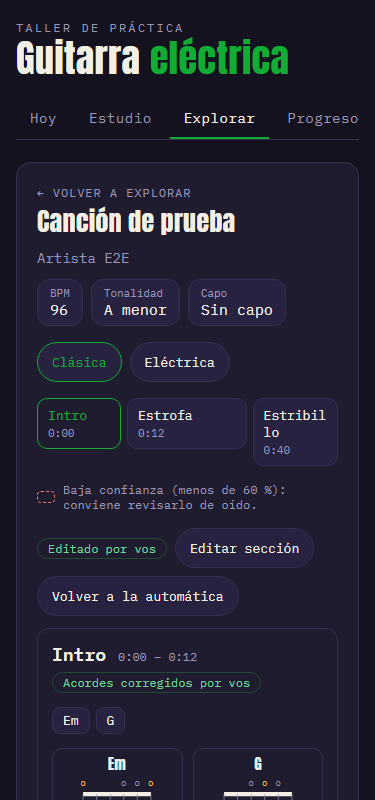
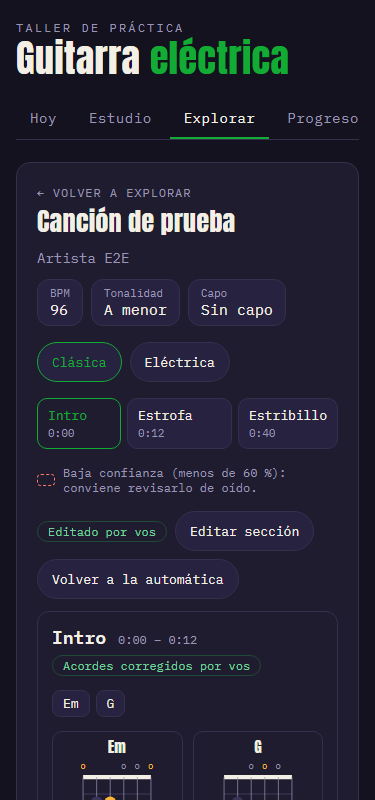
docs(fase-2): resumen de cierre con evidencia por criterio
Claude-Session: https://claude.ai/code/session_01BVeKnBARakQi9mUCfDGATC

diff --git a/docs/fases/fase-2.md b/docs/fases/fase-2.md
@@ -1,6 +1,6 @@
 # Fase 2 — Explorar: análisis de canciones
 
-Estado: **en curso** (plan aprobado por Juan Pedro el 2026-10-23)
+Estado: **cerrada, pendiente de demo** (plan aprobado por Juan Pedro el 2026-10-23)
 Referencia: `docs/PLAN.md` § Explorar, § Pipeline de análisis de canciones, § Modelo de datos (`Song*`, `AudioAsset`, `AnalysisJob`, `Correction`), § Contratos de API, § UI y diseño (diagramas de acordes, vista de canción).
 
 ## Criterios de aceptación de la fase (del plan)
@@ -189,4 +189,27 @@ Leyenda: **Ola** = tareas independientes entre sí, en paralelo (worktree propio
 
 ## Resumen de cierre
 
-(Se completa al cerrar la fase.)
+Cierre el 2026-10-23. Tareas F2-T01 a F2-T21 hechas; F2-T20 (carga manual de la cifra) y F2-T21 (ajustes de la validación) se agregaron durante la fase.
+
+### Criterios, uno por uno
+
+| # | Criterio | Estado | Evidencia |
+| --- | --- | --- | --- |
+| 1 | Pegar un link crea la canción y el worker la procesa | Cumple (YouTube y nombre + artista; Spotify listo pero inactivo hasta tener credenciales, como decidió Juan Pedro) | Corrida real por la API con "Flaca": `POST /songs`, `python -m guitarra_worker --once`, 37 s con descarga (`fase-2/validacion.md`). E2E `e2e/tests/z-canciones.spec.ts` con resultado grabado. |
+| 2 | BPM, tonalidad, secciones con tiempos, acordes con diagramas, rasgueo; clásica y eléctrica | Cumple | `GET /songs/{id}/chart` de clásica (rasgueo y arpegio) y de eléctrica en la corrida real; capturas en `fase-2/capturas/`. |
+| 3 | Cruce con Cifra Club cuando el usuario cargó la cifra; sin cifra el pipeline termina igual (ADR 0012) | Cumple | Con la cifra de "Flaca" cargada, las 6 secciones quedan con `chord_source: "cifraclub"`. Con la cifra corta, 5 de 6 (F2-T21). Sin cifra, el análisis termina con lo detectado y, si la cifra no coincide, la UI lo avisa. |
+| 4 | 5 canciones; los acordes coinciden con Cifra Club en la mayoría de las secciones | Cumple, con dos salvedades | Flaca 100 %, De música ligera 90 %, Boys Don't Cry 100 %, No voy en tren 60 % (contra una cifra plana sin secciones). Cerca del fuego no tiene cifra en Cifra Club: solo se validaron el BPM y el tiempo. BPM de las 5 dentro de ±2 %. Detalle en `fase-2/validacion.md`. |
+| 5 | Edición de acordes y rasgueo en la UI; la versión del usuario gana | Cumple | F2-T17: tests de API (gana aunque llegue un `auto` nuevo, diff guardado, volver a la automática). E2E: editar un acorde y ver "Editado por vos" tras recargar. |
+| 6 | Una canción se parte en ejercicios que suman al progreso | Cumple | F2-T18: tests de API (Terminé suma a racha y calendario, "canciones en curso", fuera del planificador). E2E: "Practicar esta sección", "Terminé" y Progreso. |
+
+### Suites al cierre
+
+Core 350, worker 337 (con torch, beat_this y BTC reales, sin omitidos), API 745, UI 400, E2E 14 de 14 (`scripts/e2e.ps1`). Vistas a 375 px sin scroll horizontal (E2E y captura `cancion-375px.png`).
+
+### Quedó pendiente o a vigilar
+
+- La confianza de la estructura (secciones) no tiene campo en el esquema del chart; si hace falta mostrarla, es un cambio de esquema con ADR.
+- Si dos secciones de la cifra tienen el mismo ciclo, el nombre de sección puede quedar cruzado.
+- "Boys Don't Cry" sin cifra sugiere capo 2 en clásica (evita las cejillas de Bm y C#m); es coherente con el modelo de dificultad.
+- No hay endpoint para borrar canciones.
+- Spotify se activa cuando estén `SPOTIFY_CLIENT_ID` y `SPOTIFY_CLIENT_SECRET` en el `.env`.
